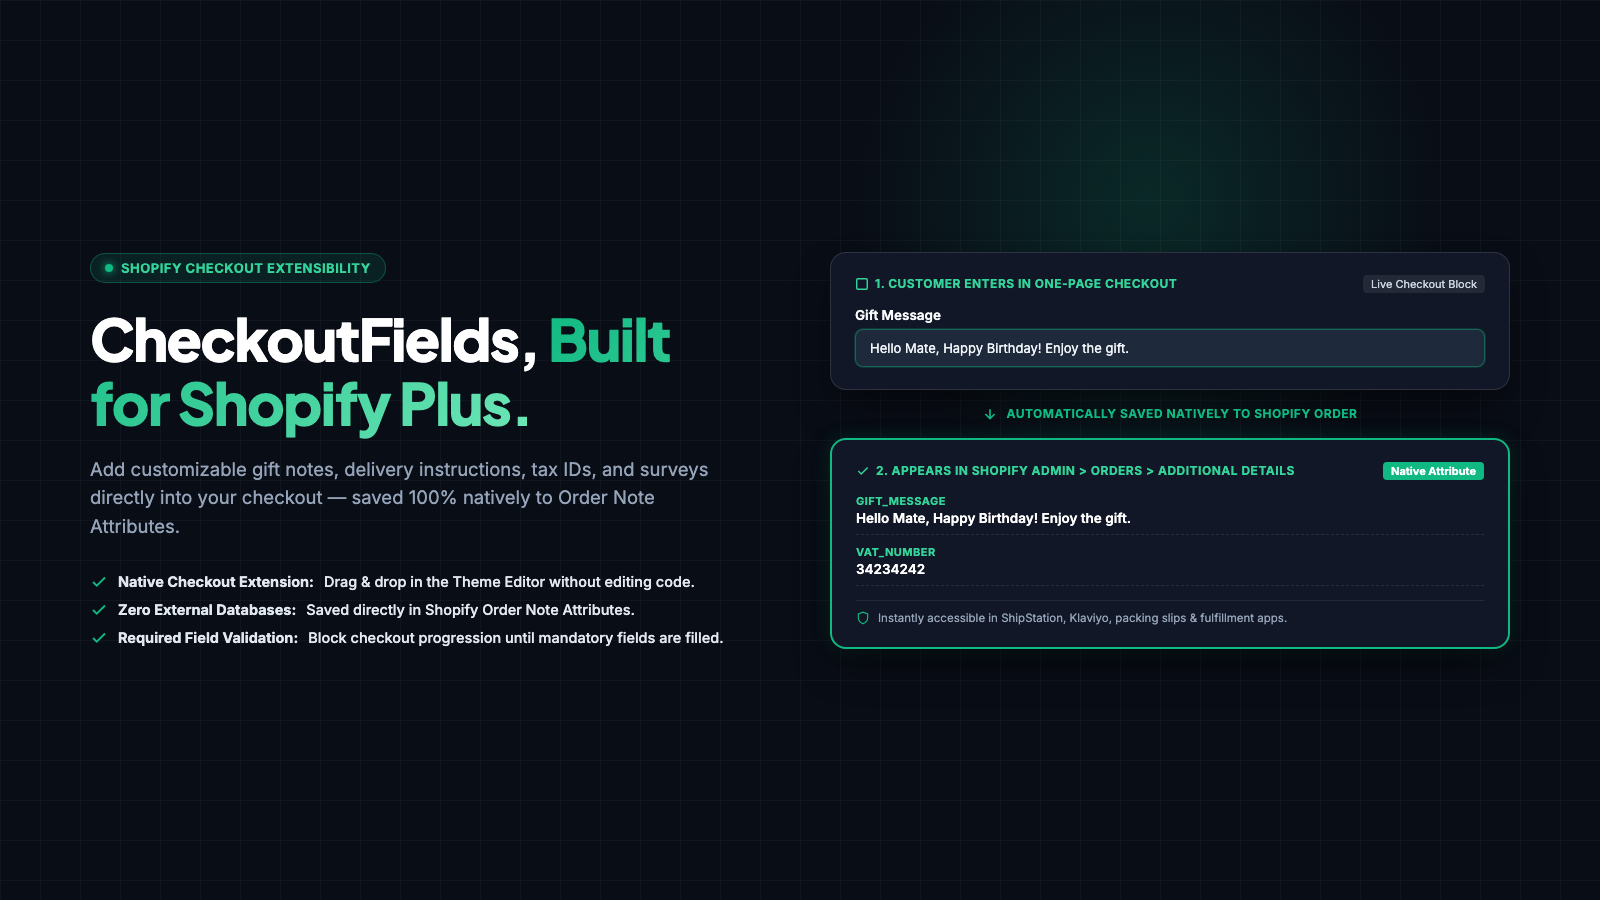
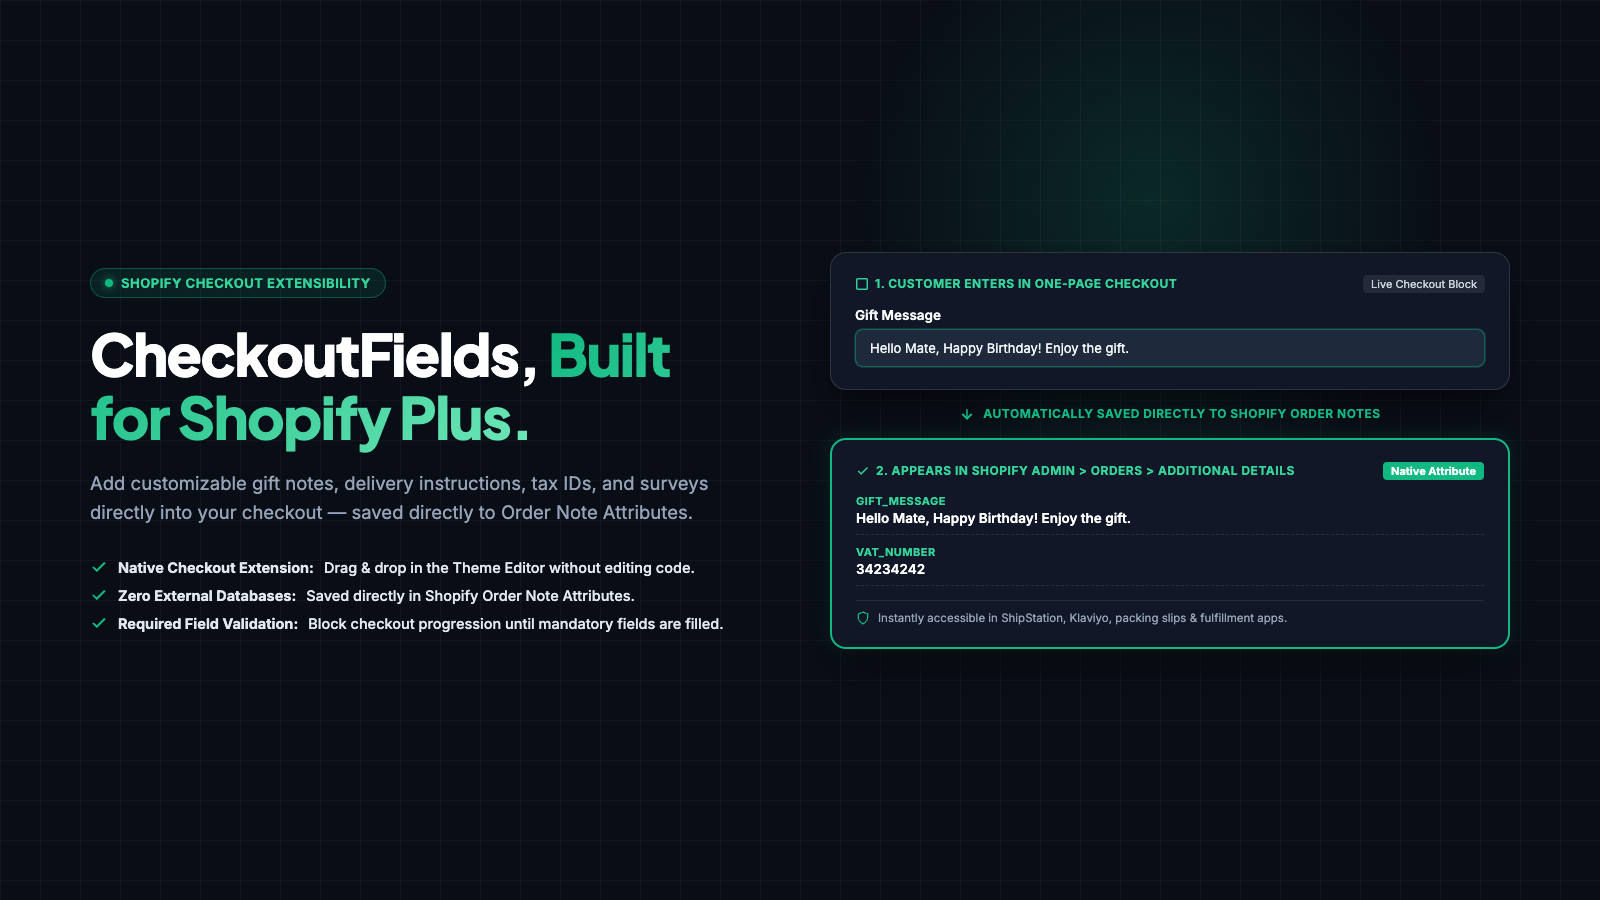
Fix Shopify App Store AI review issues: remove pricing, plan references, and 100% claims from screenshots

Changed region(s): [[0.0312, 0.28, 0.4375, 0.5911], [0.0625, 0.6222, 0.4688, 0.7156], [0.5938, 0.4356, 0.875, 0.4667]]

diff --git a/assets/listing/templates/screenshot_1_dashboard.html b/assets/listing/templates/screenshot_1_dashboard.html
@@ -453,7 +453,7 @@
       <!-- Banner -->
       <div class="banner-box">
         <svg width="16" height="16" viewBox="0 0 24 24" fill="none" stroke="#166534" stroke-width="2.5"><circle cx="12" cy="12" r="10"/><line x1="12" y1="16" x2="12" y2="12"/><line x1="12" y1="8" x2="12.01" y2="8"/></svg>
-        <span>Pro Plan Active: Unlimited checkout fields, required blocking validation, and custom note attributes are enabled.</span>
+        <span>Active: Custom checkout fields, required blocking validation, and note attributes are enabled.</span>
       </div>
 
       <!-- Title Card -->
@@ -461,12 +461,12 @@
         <div class="title-left">
           <div class="title-row">
             <span class="app-h1">CheckoutFields</span>
-            <span class="badge-tier">Pro Plan Active</span>
+            <span class="badge-tier">Active</span>
           </div>
           <span class="app-sub">Add customizable gift notes, delivery instructions, tax IDs, and surveys to checkout.</span>
         </div>
         <div class="btn-group">
-          <button class="btn-white">Manage Subscription</button>
+          <button class="btn-white">Settings</button>
           <button class="btn-dark">
             <svg width="14" height="14" viewBox="0 0 24 24" fill="none" stroke="white" stroke-width="2"><path d="M18 13v6a2 2 0 0 1-2 2H5a2 2 0 0 1-2-2V8a2 2 0 0 1 2-2h6"/><polyline points="15 3 21 3 21 9"/><line x1="10" y1="14" x2="21" y2="3"/></svg>
             Open Checkout Editor
@@ -508,7 +508,7 @@
 
           <!-- Native Storage Card -->
           <div class="p-card">
-            <div class="p-card-h">Zero External Databases • 100% Native Shopify Storage</div>
+            <div class="p-card-h">Zero External Databases • Native Shopify Storage</div>
             <p style="font-size: 13px; color: #4B5563; line-height: 1.6; margin-bottom: 10px;">
               Your customers' responses are saved directly into the Shopify Order details as <strong>Note Attributes</strong> under <code>order.customAttributes</code>.
             </p>
@@ -520,16 +520,16 @@
 
         <!-- Right Column -->
         <div>
-          <!-- Subscription Plan -->
+          <!-- App Status -->
           <div class="p-card">
-            <div class="p-card-h">Subscription Plan</div>
+            <div class="p-card-h">Extension Status</div>
             <div class="plan-box">
-              <div class="plan-box-title">Pro Plan Active ($12.99 / month)</div>
+              <div class="plan-box-title">Checkout Extension Active</div>
               <div class="plan-box-desc">
-                Unlimited checkout fields included. Required blocking validation and all field types enabled.
+                Checkout fields block ready. Required blocking validation and custom note attributes enabled.
               </div>
             </div>
-            <button class="btn-plan">Manage Subscription ($12.99/mo)</button>
+            <button class="btn-plan">Extension Settings</button>
           </div>
 
           <!-- How to Position Fields -->

diff --git a/assets/listing/templates/screenshot_2_editor.html b/assets/listing/templates/screenshot_2_editor.html
@@ -529,7 +529,7 @@
       <div class="insp-row">
         <div class="insp-label">Field Type</div>
         <input class="insp-input" type="text" value="multiline">
-        <div class="insp-sub">Free: text, multiline | Pro Plan: select, checkbox, number</div>
+        <div class="insp-sub">Supported types: text, multiline, select, checkbox, number</div>
       </div>
 
       <div class="insp-row">
@@ -545,12 +545,12 @@
       </div>
 
       <div class="insp-row">
-        <div class="insp-label">Required Field (Pro Plan)</div>
+        <div class="insp-label">Required Field</div>
         <div class="radio-row">
           <label class="radio-lbl"><input type="radio" name="req"> True</label>
           <label class="radio-lbl"><input type="radio" name="req" checked> False</label>
         </div>
-        <div class="insp-sub">Block checkout until filled (Pro Plan feature - also requires 'Allow app to block checkout' toggle above)</div>
+        <div class="insp-sub">Block checkout until filled (Requires 'Allow app to block checkout' toggle above)</div>
       </div>
     </div>
   </div>

diff --git a/assets/listing/templates/feature_banner.html b/assets/listing/templates/feature_banner.html
@@ -228,7 +228,7 @@
       </div>
       <h1>CheckoutFields, <span>Built for Shopify Plus.</span></h1>
       <p>
-        Add customizable gift notes, delivery instructions, tax IDs, and surveys directly into your checkout — saved 100% natively to Order Note Attributes.
+        Add customizable gift notes, delivery instructions, tax IDs, and surveys directly into your checkout — saved directly to Order Note Attributes.
       </p>
       <div class="pills-row">
         <div class="feat-pill">
@@ -266,7 +266,7 @@
       <!-- Arrow -->
       <div class="flow-connector">
         <svg width="16" height="16" viewBox="0 0 24 24" fill="none" stroke="currentColor" stroke-width="2.5"><line x1="12" y1="5" x2="12" y2="19"/><polyline points="19 12 12 19 5 12"/></svg>
-        <span>Automatically Saved Natively To Shopify Order</span>
+        <span>Automatically Saved Directly To Shopify Order Notes</span>
       </div>
 
       <!-- Step 2: In Order Admin -->

diff --git a/assets/listing/APP_LISTING_SUBMISSION_DATA.md b/assets/listing/APP_LISTING_SUBMISSION_DATA.md
@@ -7,7 +7,8 @@ This document contains every exact field, description, and asset needed to submi
 ## 1. Basic App Information
 
 - **App name** (Max 30 chars):  
-  `CheckoutFields`
+  `RelayWorks CheckoutFields` *(25 chars - includes unique brand name per Shopify guidelines)*  
+  *(Alternative: `Relay Checkout Fields` - 21 chars)*
 - **App icon** (1200×1200 px · PNG or JPG · < 1MB):  
   Use either of the two approved icons:
   - Option A: `assets/icons/checkoutfields_icon_concept1_form_flow.jpg` *(Recommended)*
@@ -37,7 +38,7 @@ Add custom text fields, multiline delivery instructions, preferred delivery date
 Enforce Required Field Validations:
 Ensure customers provide required information before advancing or completing their order. Our built-in validation rules enforce compliance for critical fields like age verification, terms checkboxes, or delivery instructions without disrupting checkout speed.
 
-100% Native Shopify Storage:
+Native Shopify Order Storage:
 Unlike other apps that store customer data in third-party external databases, CheckoutFields saves all submitted values directly into native Shopify Order Note Attributes. Your data immediately syncs with your warehouse management systems, fulfillment providers, ShipStation, and email marketing apps like Klaviyo.
 
 Zero Code Required:
